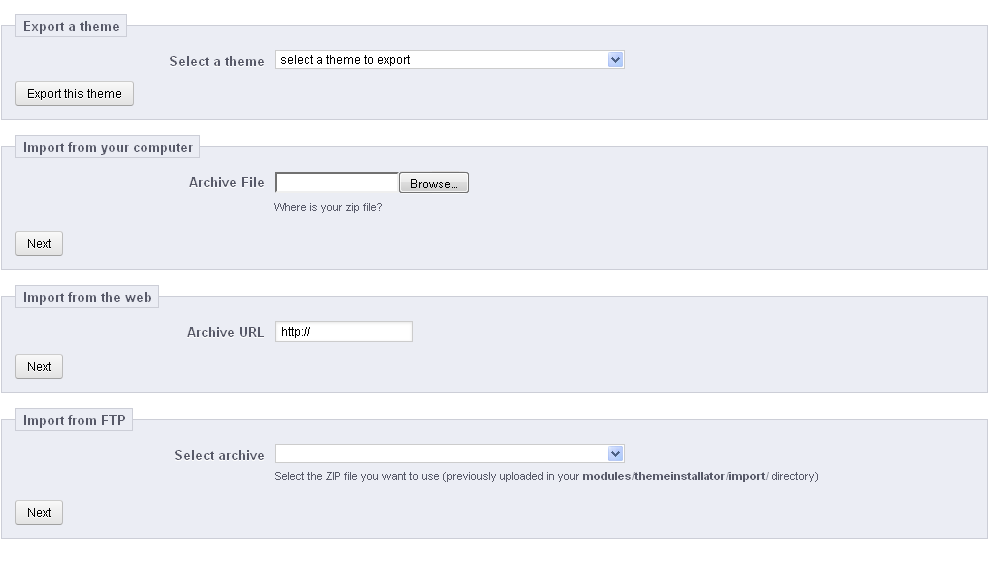
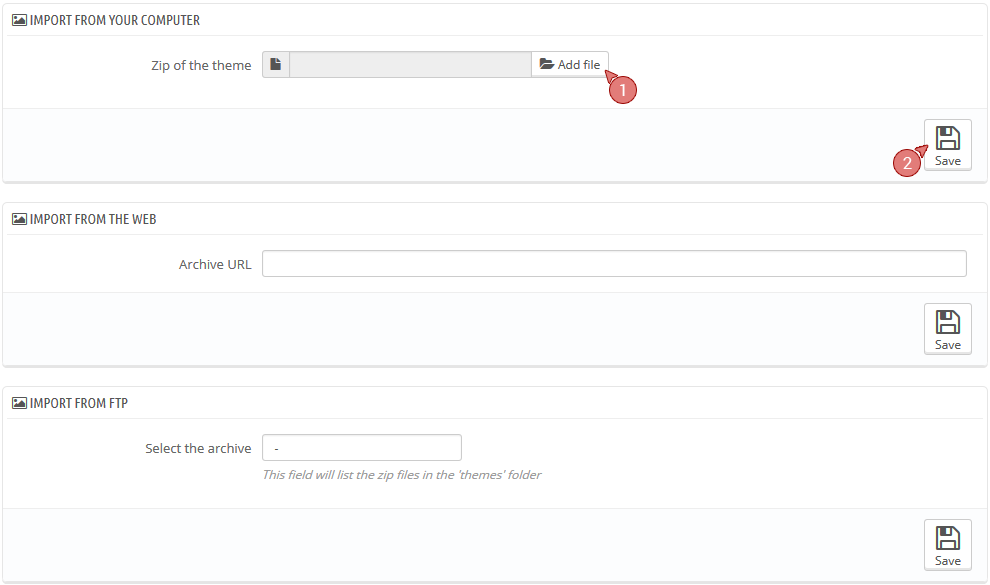
Block "Import theme" was added in Russian and English

diff --git a/index_ru.html b/index_ru.html
@@ -103,7 +103,7 @@
                        <dt><a href="#theme_installation" class="icon-cog"><i class="icon-sample"></i>Установка шаблона PrestaShop </a> </dt>
                          <dd>
                            <ul class="list">          
-                            	<li><a href="#themeinstaller">Установка шаблона с помощью модуля 'themeinstallator'</a></li>
+                            	<li><a href="#themeinstaller">Импорт темы</a></li>
                            		<li><a href="#without_products">Установка шаблона без демонстрационных данных</a></li>
                             	<li><a href="#with_products">Установка шаблона с демонстрационными данными</a></li>
                             	<li><a href="#overdata">Установка шаблона на существующий магазин</a></li>
@@ -233,7 +233,7 @@
 <section class="block-templates" id="theme_installation">
 	<h2><i class="icon-cog"></i> Установка шаблона PrestaShop</h2>
     <article id="themeinstaller">
-    	<h3>1. Установка шаблона с помощью модуля 'themeinstallator'</h3>
+    	<h3>1. Импорт темы</h3>
         <div class="box-info">
 			<span>Этот способ не предусматривает установки демонстрационных данных.</span>
         </div>
@@ -241,27 +241,30 @@
 		<p>Перед тем, как продолжать, убедитесь, что вы уже скачали шаблон и распаковали его архив. Вы можете посмотреть инструкцию как распаковывать архивы с помощью <a target="_blank" href="/help/ru/unzipping-your-template.html">WinZip</a> и <a target="_blank" href="/help/ru/how-unzip-template-mac.html">StuffitExpander</a>.</p>
 		<p>После распаковки файлов вы можете приступать к загрузке шаблона.</p>
 		<h4 id="template_installation_themeinstallator2">2. Установка.</h4>
-		<p>Откройте панель управления PrestaShop и перейдите в страницу <b>Modules->Modules menu</b>. На этой странице перейдите в раздел <b>Administration</b>. Тут вы увидите список доступных модулей. Найдите '<b>Import/export a theme</b> v1.4' и кликните <b>Configure</b>.</p>
+		<p>Откройте панель управления PrestaShop и перейдите на страницу <b>Preferences -> Themes</b>. Вверху страницы кликните кнопку <b>Add new theme (Добавить новую тему)</b>.</p>
 
 		<img class="presta_scr2" src="img/05-install-2.png" alt="" />
 		<p></p>
-		<p>Нажмите кнопку <b>Browse</b> и перейдите в папку <b>"themeinstallator"</b> в распакованных файлах шаблона:</p>
-		<p></p>
+		<p>В форме <b>Import from your computer (Загрузить с Вашего компьютера)</b> нажмите кнопку <b>Add file (Добавить файл)</b> и перейдите в папку <b>"themeinstallator"</b> в разархивированном шаблоне:</p>
+		<p>Выберите .zip файл с вашей темой и нажмите кнопку <b>Save</b></p>
 		<img class="presta_scr2" src="img/05-install-3.png" alt="" />
-
-		<p>На следующей странице вы увидите информацию об устанавливаемом шаблоне. Нажмите <b>Next</b>.</p>
+		<p></p>
+		<p>После этого начнется загрузка темы на сервер. Вы увидите сообщение о том, что загрузка прошла успешно, после этого в листинге установленных тем появится миниатюра Вашей новой темы.</p>
 
 		<img class="presta_scr2" src="img/05-install-4.png" alt="" />
-
-		<p>Произведя эти действия вы увидите сообщение об успешной установке шаблона и меню с настройками модулей. Нажмите <b>Next</b>.</p>
+		<p></p>
+		<p>Для того чтобы активировать новую тему, наведите курсор на миниатюру темы и нажмите на появившуюся кнопку <b>"Use this theme" (Использовать эту тему)</b>.</p>
 
 		<img class="presta_scr2" src="img/05-install-5.png" alt="" />
-
-		<p>Последний шаг дает вам возможность посмотреть, какие изменения были внесены в процессе установки. Нажмите <strong>Finish</strong>.</p>
+		<p></p>
+		<p>В появившемся окне отображается информация об используемых темой модулях, количестве модулей которые будет включены и выключены. Для продолжения нажмите<b>Save (Сохранить)</b>.</p>
 	<p style="text-align:center;">
 	  <img class="presta_scr2" src="img/05-install-6.png" alt="" />
-	  </p>    
-    </article>
+	  </p>   
+      <p>После этого появится всплывающее окно с сообщением об успешной активации темы: тема успешно установлена, изображения перегенерированы под заданные в этой теме размеры. Для завершения установки нажмите кнопку<b>Finish (Завершить)</b>.</p>
+      <img class="presta_scr2" src="img/05-install-6_1.png" alt="" />
+		<p></p> 
+    </article>    
     <article id="without_products">
     	<h3>2. Установка шаблона без демонстрационных данных</h3>
         <div class="box-info"><span>Этот метод установки подходит, если вы планируете заменить тему уже работающего магазина. Он не повредит существующие файлы и каталог товаров.</span></div>

diff --git a/index_en.html b/index_en.html
@@ -104,7 +104,7 @@
                        <dt><a href="#theme_installation" class="icon-cog"> <i class="icon-sample"></i>Template installation </a></dt>
                          <dd>
                            <ul class="list">          
-                            	<li><a href="#themeinstaller">Template installation, using 'themeinstallator' module</a></li>
+                            	<li><a href="#themeinstaller">Import theme</a></li>
                            		<li><a href="#without_products">Installing template without sample data</a></li>
                             	<li><a href="#with_products">Template installation with sample data</a></li>
                             	<li><a href="#overdata">Installing template over existing store</a></li>
@@ -234,34 +234,37 @@
 <section class="block-templates" id="theme_installation">
 	<h2><i class="icon-cog"></i> PrestaShop Template installation</h2>
     <article id="themeinstaller">
-    	<h3>1. Template installation using the 'themeinstallator' module</h3>
+    	<h3>1. Import theme</h3>
         <div class="box-info">
 			<span>Note: this method does not provide sample data installation.</span>
         </div>
         <h4 id="template_installation_themeinstallator1">1. Template preparation.</h4>
-		<p>Before you proceed, please make sure you have already downloaded the template and extracted the files from the template package. You can check detailed tutorials on how to extract files from the template package using <a target="_blank" href="/help/unzipping-your-template.html">WinZip</a> and <a target="_blank" href="/help/how-unzip-template-mac.html">StuffitExpander</a>.</p>
+		<p>Before you proceed, please make sure you have already downloaded the template and extracted the files from the template package. You can check detailed tutorials on how to extract files from the template package using <a target="_blank" href="/help/ru/unzipping-your-template.html">WinZip</a> and <a target="_blank" href="/help/ru/how-unzip-template-mac.html">StuffitExpander</a>.</p>
 		<p>When the files are extracted, you can proceed to uploading the template.</p>
 		<h4 id="template_installation_themeinstallator2">2. Installation.</h4>
-		<p>Open the PrestaShop admin panel, go to the <b>Modules->Modules menu</b>. On this page, please open the <b>Administration</b> section. Here you will see the list of  available modules. Find the one called '<b>Import/export a theme</b> v1.4' and click <b>Configure</b>.</p>
+		<p>Login to your Prestashop admin panel and navigate to <b>Preferences -> Themes</b>. At the top of the page click the <b>Add new theme</b> button.</p>
 
 		<img class="presta_scr2" src="img/05-install-2.png" alt="" />
 		<p></p>
-		<p>Click the <b>Browse</b> button and navigate to the <b>"themeinstallator"</b> folder inside of the template package to locate the archive with the template:</p>
-		<p></p>
+		<p>Click the <b>Add file</b> button in Import from your computer section. Navigate to previously unzipped template package and open <b>themeinstallator</b> folder:</p>
+		<p>Select your theme .zip file and click <b>Save</b></p>
 		<img class="presta_scr2" src="img/05-install-3.png" alt="" />
-
-		<p>On the next page you will see information about the template you are installing. Click <b>Next</b>.</p>
+		<p></p>
+		<p>The uploading process will be started. You will see the message that the theme has been successfully uploaded. Your new theme preview will appear in the list of installed themes.</p>
 
 		<img class="presta_scr2" src="img/05-install-4.png" alt="" />
-
-		<p>After these steps, you’ll see a notification saying that your template has been successfully  installed and a menu with the module settings. Click <b>Next</b>.</p>
+		<p></p>
+		<p>In order to activate the theme, rollover cursor at the theme preview icon and click <b>Use this theme</b>.</p>
 
 		<img class="presta_scr2" src="img/05-install-5.png" alt="" />
-
-		<p>The last step allows you to see the information about   modifications performed by the module during installation. Click <strong>Finish</strong>.</p>
+		<p></p>
+		<p>You should see the screen with the information of the modules used in the theme, the number of modules that are turned on and off. Click <b>Save</b> in order to continue.</p>
 	<p style="text-align:center;">
 	  <img class="presta_scr2" src="img/05-install-6.png" alt="" />
-	  </p>    
+	  </p>   
+      <p>After this you will see the pop-up with the message about successful theme activation: the theme has been installed successfully, images have been re-generated up to the defined in theme dimensions. To finish installation click <b>Finish</b> button.</p>
+      <img class="presta_scr2" src="img/05-install-6_1.png" alt="" />
+		<p></p> 
     </article>
     <article id="without_products">
     	<h3>2. Installing template without sample data</h3>
